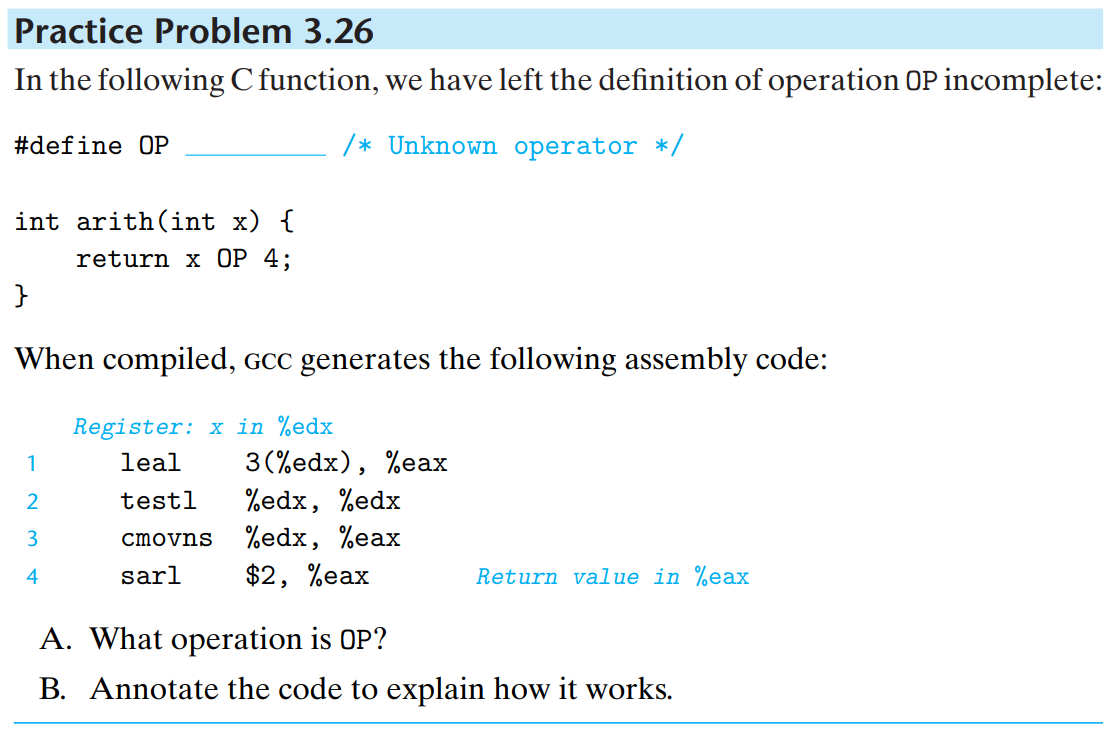
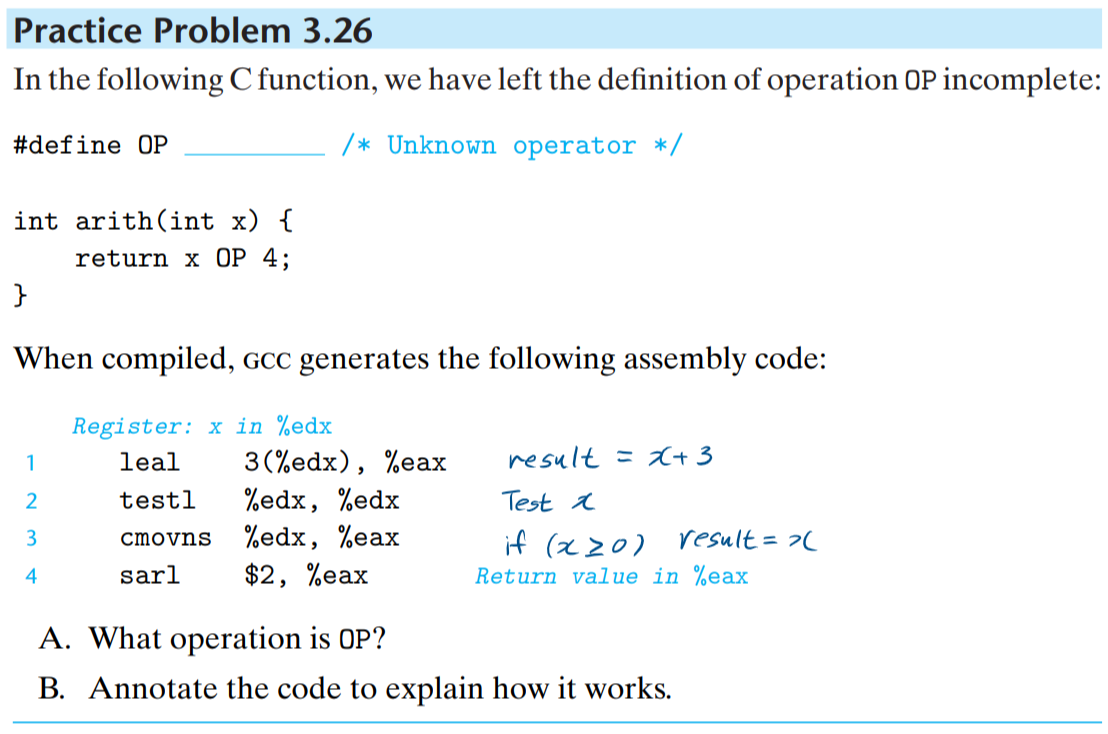
230125

diff --git a/contents/ch_03/problems/practice_problems.md b/contents/ch_03/problems/practice_problems.md
@@ -325,8 +325,28 @@ int main(){
 
 ### Practice Problem 3.26
 ![Practice Problem 3.26](https://github.com/JoonHyeok-hozy-Kim/computer_systems_study/blob/main/contents/ch_03/problems/practice/26.png)
+* Sol.
+  1. Division by 4. Bias, (2^k - 1), is added for the negative number case.
+  2. Annotated above.
 
-
+### Practice Problem 3.27
+![Practice Problem 3.27](https://github.com/JoonHyeok-hozy-Kim/computer_systems_study/blob/main/contents/ch_03/problems/practice/27.png)
+* Sol.
+  ```c
+  int test(int x, int y){
+    int val = x ^ y;
+    if (y <= 0){
+      if (y >= -2){
+        val = 4*x;
+      } else {
+        val = x + y;
+      }
+    } else if (x < y){
+      val = x - y;
+    }
+    return val;
+  }
+  ```
 
 
 
